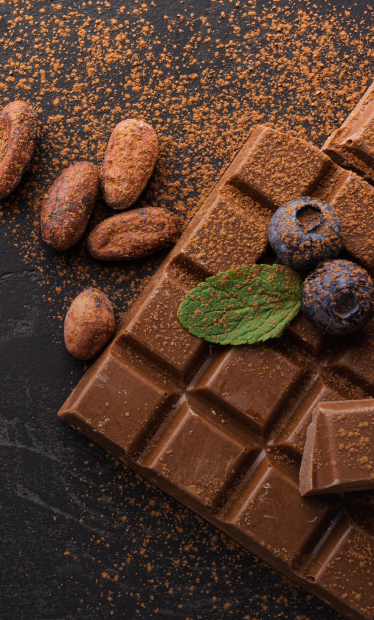
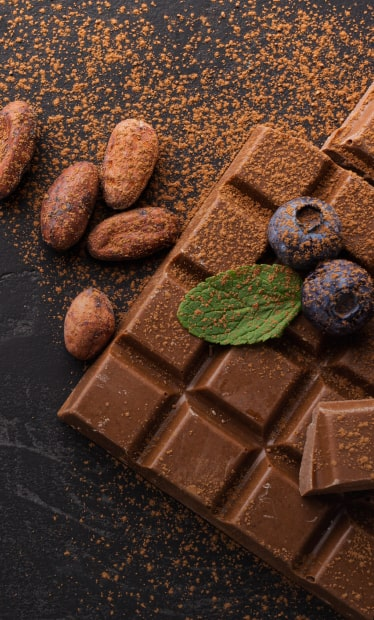
update made section

diff --git a/index.html b/index.html
@@ -318,7 +318,7 @@
           </ul>
         </div>
       </section>
-      <!-- <section
+      <section
         id="made"
         class="made">
         <div class="container">
@@ -326,12 +326,35 @@
             hOW IT’S <span class="accent">made?</span>
           </h2>
           <div class="made-box">
-            <img
-              class="made-image"
-              src="./images/main-image-1.jpg"
-              alt="liquide chocolade"
-              width="600"
-              height="400" />
+            <picture>
+              <source
+                media="(min-width: 1166px)"
+                srcset="
+                  ./images/made/made-image-desk.jpg    1x,
+                  ./images/made/made-image-desk@2x.jpg 2x
+                "
+                alt="liquide chocolade" />
+              <source
+                media="(min-width: 768px)"
+                srcset="
+                  ./images/made/made-image-tab.jpg    1x,
+                  ./images/made/made-image-tab@2x.jpg 2x
+                "
+                alt="liquide chocolade" />
+              <source
+                media="(max-width: 768px)"
+                srcset="
+                  ./images/made/made-image-mob.jpg    1x,
+                  ./images/made/made-image-mob@2x.jpg 2x
+                "
+                alt="liquide chocolade" />
+              <img
+                class="made-image"
+                src="./images/made/made-image-desk.jpg"
+                alt="liquide chocolade"
+                width="600"
+                height="400" />
+            </picture>
             <div class="made-content">
               <h3 class="made-subtitle">
                 Try our chocolates today and discover the perfect balance of
@@ -372,7 +395,7 @@
             </div>
           </div>
         </div>
-      </section> -->
+      </section>
       <!-- <section
         id="review"
         class="review">

diff --git a/css/styles.css b/css/styles.css
@@ -691,25 +691,24 @@ h6 {
 /*-----------MADE-----------*/
 
 .made {
-  padding-top: 50px;
-  padding-bottom: 50px;
+  padding-top: 30px;
+  padding-bottom: 30px;
 }
 
 .made-title {
-  margin-bottom: 50px;
+  margin-bottom: 32px;
 }
 
 .made-box {
-  display: flex;
-  gap: 20px;
 }
 
 .made-image {
+  margin-bottom: 20px;
 }
 
 .made-content {
   border-radius: 15px;
-  padding: 32px;
+  padding: 20px 14px;
   background: #fff;
 }
 
@@ -719,7 +718,7 @@ h6 {
   line-height: 1.33;
   color: #111;
   max-width: 350px;
-  margin-bottom: 28px;
+  margin-bottom: 20px;
 }
 
 .made-list {
@@ -728,8 +727,7 @@ h6 {
 .made-item {
   position: relative;
   padding-left: 16px;
-  margin-bottom: 24px;
-  /* max-width: 452px; */
+  margin-bottom: 18px;
 }
 
 .made-item::before {
@@ -754,6 +752,46 @@ h6 {
   letter-spacing: -0.02em;
   color: #111;
   max-width: 410px;
+}
+
+@media screen and (min-width: 768px) {
+  /* .made .container {
+    padding-left: 45px;
+    padding-right: 45px;
+  } */
+
+  .made {
+    padding-top: 40px;
+    padding-bottom: 40px;
+  }
+
+  .made-title {
+    margin-bottom: 50px;
+  }
+
+  .made-content {
+    padding: 32px;
+  }
+
+  .made-subtitle {
+    margin-bottom: 28px;
+  }
+}
+
+@media screen and (min-width: 1166px) {
+  .made {
+    padding-top: 50px;
+    padding-bottom: 50px;
+  }
+
+  .made-box {
+    display: flex;
+    gap: 20px;
+  }
+
+  .made-item {
+    margin-bottom: 24px;
+  }
 }
 
 /*-----------MADE-----------*/
